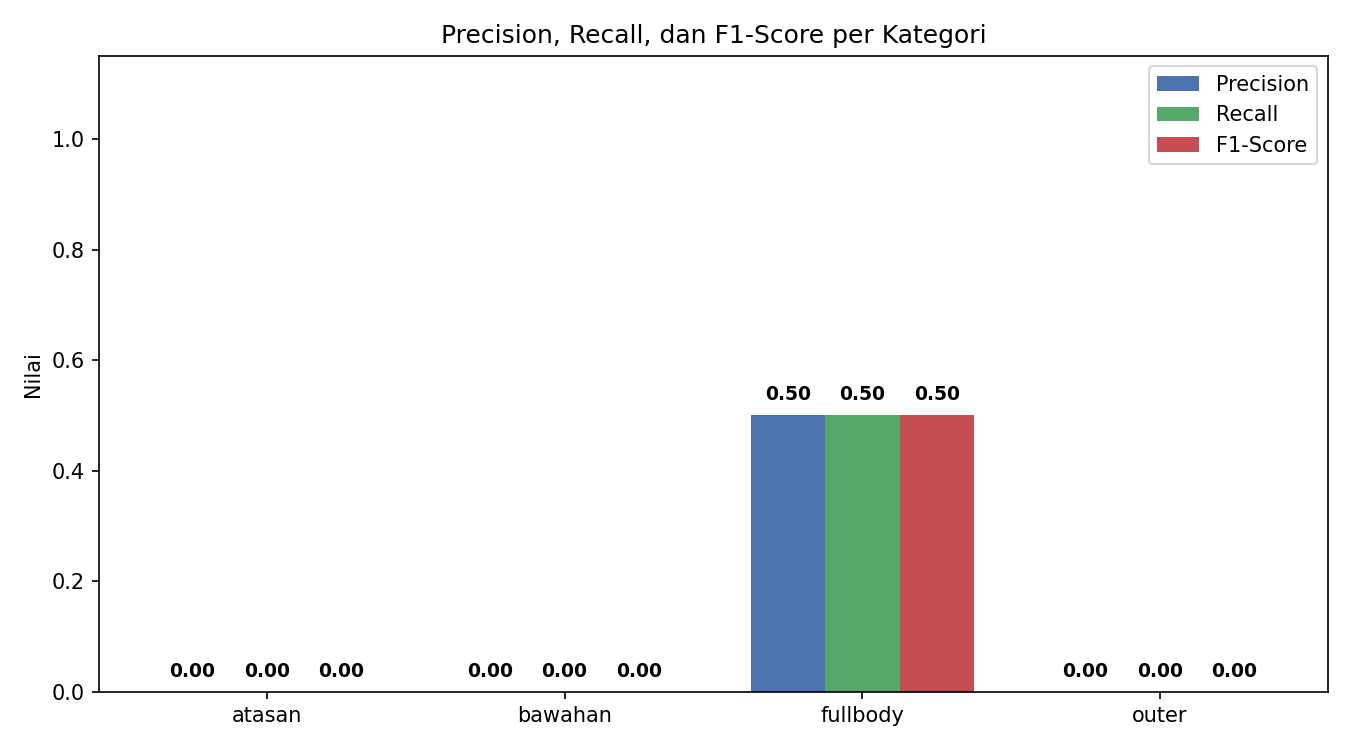
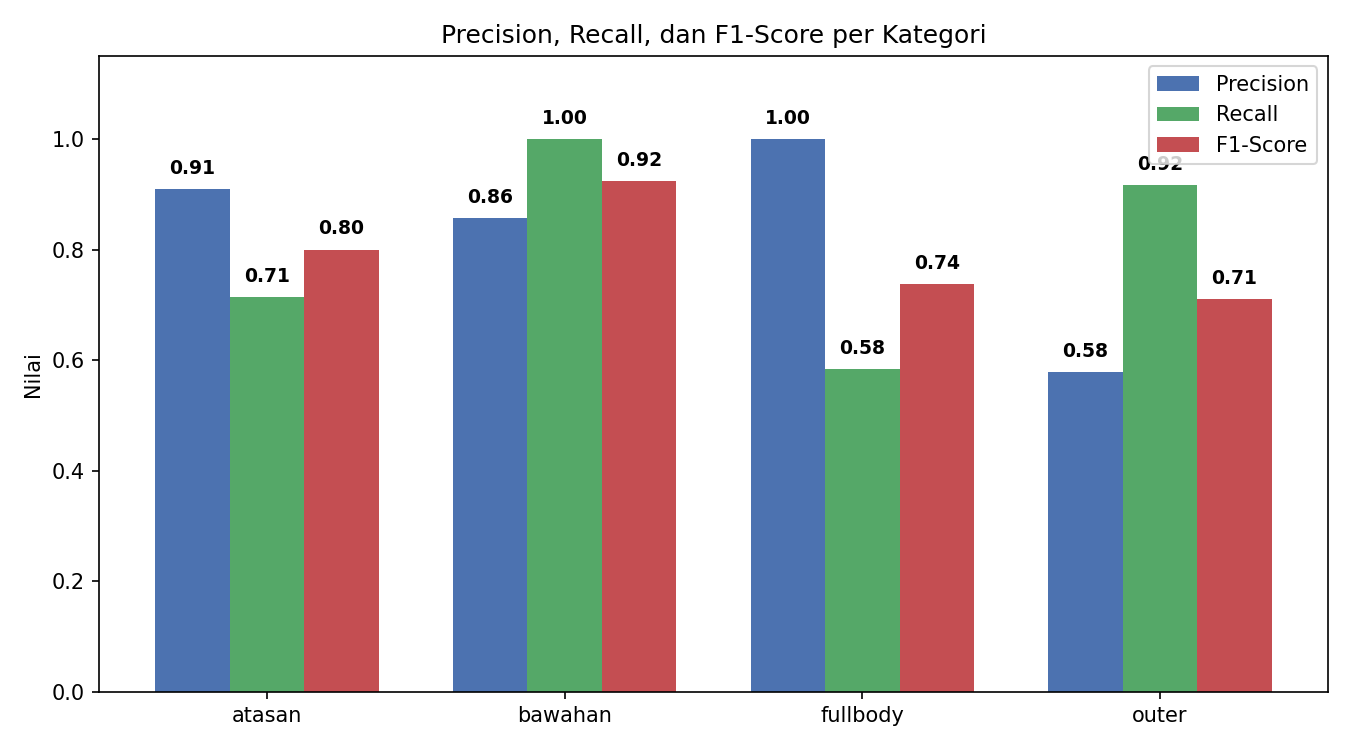
Add CLAUDE.md for project guidance and update main.py for improved data processing and model training

diff --git a/main.py b/main.py
@@ -9,70 +9,94 @@ from sklearn.tree import DecisionTreeClassifier, export_text, plot_tree
 from sklearn.model_selection import train_test_split
 from sklearn.metrics import confusion_matrix, ConfusionMatrixDisplay
 from sklearn.metrics import classification_report, accuracy_score
-from sklearn.preprocessing import LabelEncoder
+from sklearn.preprocessing import LabelEncoder, MultiLabelBinarizer
 
+# Membaca file .env agar SUPABASE_URL dan SUPABASE_KEY bisa diakses lewat os.environ
 load_dotenv()
 
 # ── 1. Fetch data dari Supabase ────────────────────────────────────────────────
+# Mengambil semua data responden dari tabel 'responses' di Supabase
+# lewat REST API yang disediakan Supabase secara otomatis
 print("Mengambil data dari Supabase...")
-url     = os.environ["SUPABASE_URL"] + "/rest/v1/responses?select=*&created_at=lt.2026-06-07T00:00:00&order=id.asc"
+url     = os.environ["SUPABASE_URL"] + "/rest/v1/responses?select=*&order=id.asc"
 headers = {
-    "apikey":        os.environ["SUPABASE_KEY"],
+    "apikey":        os.environ["SUPABASE_KEY"],   # kunci autentikasi Supabase
     "Authorization": "Bearer " + os.environ["SUPABASE_KEY"],
 }
 resp    = requests.get(url, headers=headers)
-records = resp.json()
+records = resp.json()  # hasil berupa list of dict (tiap dict = 1 baris data)
 
 if not records:
     print("Tidak ada data di tabel responses. Kumpulkan data dulu.")
     exit()
 
-df = pd.DataFrame(records)
+df = pd.DataFrame(records)  # ubah list of dict menjadi DataFrame agar mudah diolah
 print(f"Total data: {len(df)} responden\n")
 
 # ── 2. Preprocessing ───────────────────────────────────────────────────────────
+# Hanya ambil 3 kolom yang dibutuhkan untuk training, buang baris yang ada nilai kosong
 df = df[["body_shape", "gaya", "outfit"]].dropna()
 
-# Ambil gaya dominan (pilihan pertama)
-df["gaya_dominan"] = df["gaya"].apply(lambda x: x[0] if isinstance(x, list) and len(x) > 0 else None)
-df = df.dropna(subset=["gaya_dominan"])
+# Kolom 'gaya' dari Supabase bertipe array JSON (bisa multi-select)
+# Pastikan isinya benar-benar list dan tidak kosong; kalau tidak valid, jadikan None lalu hapus
+df["gaya"] = df["gaya"].apply(lambda x: x if isinstance(x, list) and len(x) > 0 else None)
+df = df.dropna(subset=["gaya"])
 
-# Ambil outfit utama (pilihan pertama) lalu kelompokkan ke kategori
+# Mapping nama outfit spesifik ke 4 kategori rekomendasi
+# Kategori ini yang akan menjadi label/output dari model
 KATEGORI = {
-    "dress":    "fullbody",
+    "dress":    "fullbody",   # pakaian satu potong yang menutupi badan penuh
     "jumpsuit": "fullbody",
     "setelan":  "fullbody",
-    "rok":      "bawahan",
+    "rok":      "bawahan",    # pakaian bagian bawah
     "celana":   "bawahan",
     "jeans":    "bawahan",
-    "blus":     "atasan",
+    "blus":     "atasan",     # pakaian bagian atas
     "kemeja":   "atasan",
     "kaos":     "atasan",
     "knit":     "atasan",
-    "blazer":   "outer",
+    "blazer":   "outer",      # pakaian luar / layer tambahan
     "outer":    "outer",
 }
-df["outfit_utama"]  = df["outfit"].apply(lambda x: x[0] if isinstance(x, list) and len(x) > 0 else None)
-df["rekomendasi"]   = df["outfit_utama"].map(KATEGORI)
-df = df.dropna(subset=["rekomendasi"])
+
+# Ambil outfit pilihan pertama responden sebagai acuan label
+# (outfit[0] = pilihan utama/prioritas responden)
+df["outfit_utama"] = df["outfit"].apply(lambda x: x[0] if isinstance(x, list) and len(x) > 0 else None)
+# Petakan nama outfit ke kategori; outfit yang tidak ada di mapping akan jadi NaN
+df["rekomendasi"]  = df["outfit_utama"].map(KATEGORI)
+df = df.dropna(subset=["rekomendasi"])  # hapus baris yang outfit-nya tidak dikenali
 
 print(f"Total baris setelah preprocessing: {len(df)}\n")
+
+# Tampilkan distribusi: untuk tiap kombinasi body_shape + gaya, label apa yang paling sering muncul
 print("Distribusi rekomendasi per kombinasi:")
-print(df.groupby(["body_shape", "gaya_dominan"])["rekomendasi"].agg(lambda x: x.value_counts().index[0]).to_string())
+df["gaya_str"] = df["gaya"].apply(lambda x: ", ".join(x))
+print(df.groupby(["body_shape", "gaya_str"])["rekomendasi"].agg(lambda x: x.value_counts().index[0]).to_string())
 print()
 
 # ── 3. Encode fitur ────────────────────────────────────────────────────────────
-le_body  = LabelEncoder()
-le_gaya  = LabelEncoder()
-le_label = LabelEncoder()
+# Model machine learning hanya bisa membaca angka, bukan teks
+# Maka semua fitur kategorikal harus diubah ke bentuk numerik
+
+le_body  = LabelEncoder()       # mengubah body_shape (teks) → angka (misal: hourglass=1, pear=3)
+mlb      = MultiLabelBinarizer()# mengubah gaya (list) → kolom biner per gaya (0 atau 1)
+le_label = LabelEncoder()       # mengubah label rekomendasi (teks) → angka
 
 df["body_shape_enc"] = le_body.fit_transform(df["body_shape"])
-df["gaya_enc"]       = le_gaya.fit_transform(df["gaya_dominan"])
 df["label_enc"]      = le_label.fit_transform(df["rekomendasi"])
 
-X = df[["body_shape_enc", "gaya_enc"]]
-y = df["label_enc"]
+# fit_transform pada mlb menghasilkan matrix biner:
+# misal gaya=['casual','classic'] → gaya_bohemian=0, gaya_casual=1, gaya_classic=1, gaya_formal=0, gaya_sporty=0
+gaya_encoded = mlb.fit_transform(df["gaya"])
+gaya_cols    = [f"gaya_{g}" for g in mlb.classes_]  # nama kolom: gaya_casual, gaya_formal, dst
+gaya_df      = pd.DataFrame(gaya_encoded, columns=gaya_cols, index=df.index)
 
+# Gabungkan fitur body_shape + semua kolom gaya menjadi input model (X)
+X = pd.concat([df[["body_shape_enc"]], gaya_df], axis=1)
+y = df["label_enc"]  # label/target yang ingin diprediksi
+
+# Bagi data menjadi 80% training dan 20% testing
+# random_state=42 agar pembagian selalu sama setiap kali dijalankan
 X_train, X_test, y_train, y_test = train_test_split(
     X, y, test_size=0.20, random_state=42
 )
@@ -80,20 +104,28 @@ print(f"Data training : {len(X_train)} sampel (80%)")
 print(f"Data testing  : {len(X_test)} sampel (20%)\n")
 
 # ── 4. Training C4.5 ───────────────────────────────────────────────────────────
+# C4.5 menggunakan entropy sebagai kriteria pemilihan atribut (information gain)
+# max_depth=5 membatasi kedalaman pohon agar tidak overfitting
 print("Training pohon keputusan C4.5...")
 model = DecisionTreeClassifier(
-    criterion="entropy",
-    max_depth=5,
-    min_samples_split=2,
-    min_samples_leaf=1,
+    criterion="entropy",      # pakai entropy = pendekatan C4.5 (bukan gini = CART)
+    max_depth=5,              # maksimum 5 level kedalaman pohon
+    min_samples_split=2,      # minimal 2 sampel untuk membuat percabangan baru
+    min_samples_leaf=1,       # minimal 1 sampel di tiap daun pohon
     random_state=42,
 )
-model.fit(X_train, y_train)
+model.fit(X_train, y_train)  # model belajar pola dari data training
 
 # ── 5. Evaluasi ────────────────────────────────────────────────────────────────
+# Uji model dengan data testing (data yang tidak dilihat saat training)
 y_pred = model.predict(X_test)
 acc    = accuracy_score(y_test, y_pred)
 print(f"\nAkurasi model: {acc * 100:.1f}%\n")
+
+# Classification report menampilkan precision, recall, dan f1-score per kategori:
+# - Precision : dari semua yang diprediksi kelas X, berapa % yang benar
+# - Recall    : dari semua data asli kelas X, berapa % yang berhasil terdeteksi
+# - F1-Score  : rata-rata harmonis precision dan recall
 print("Classification Report:")
 labels_present = sorted(y.unique())
 class_names    = le_label.inverse_transform(labels_present)
@@ -102,7 +134,7 @@ report         = classification_report(
     labels=labels_present,
     target_names=class_names,
     zero_division=0,
-    output_dict=True,
+    output_dict=True,  # output dict dipakai untuk membuat grafik di bawah
 )
 print(classification_report(
     y_test, y_pred,
@@ -111,11 +143,11 @@ print(classification_report(
     zero_division=0,
 ))
 
-# Visualisasi precision, recall, f1-score — satu grafik gabungan
+# Visualisasi precision, recall, f1-score dalam satu grafik batang kelompok
 metrics_df = pd.DataFrame(report).T.loc[list(class_names), ["precision", "recall", "f1-score"]]
 
-x     = np.arange(len(class_names))
-width = 0.25
+x     = np.arange(len(class_names))  # posisi label di sumbu X
+width = 0.25                          # lebar tiap batang
 
 fig, ax = plt.subplots(figsize=(9, 5))
 bars1 = ax.bar(x - width, metrics_df["precision"], width, label="Precision", color="#4C72B0")
@@ -129,6 +161,7 @@ ax.set_xticks(x)
 ax.set_xticklabels(class_names)
 ax.legend()
 
+# Tampilkan nilai angka di atas tiap batang
 for bars in [bars1, bars2, bars3]:
     for bar in bars:
         h = bar.get_height()
@@ -141,6 +174,8 @@ plt.show()
 print("Grafik metrics disimpan: metrics.png")
 
 # ── 6. Confusion Matrix ────────────────────────────────────────────────────────
+# Confusion matrix menunjukkan berapa prediksi yang benar dan salah per kategori
+# Diagonal = prediksi benar; luar diagonal = prediksi salah (tertukar ke kategori mana)
 class_names = le_label.inverse_transform(labels_present)
 cm  = confusion_matrix(y_test, y_pred, labels=labels_present)
 fig, ax = plt.subplots(figsize=(7, 5))
@@ -153,7 +188,9 @@ plt.show()
 print("Confusion matrix disimpan: confusion_matrix.png\n")
 
 # ── 7. Tampilkan rules pohon keputusan ────────────────────────────────────────
-feature_names = ["body_shape", "gaya_dominan"]
+# Menampilkan aturan if-then yang dihasilkan pohon C4.5 dalam format teks
+# Berguna untuk memahami logika keputusan model (interpretability)
+feature_names = ["body_shape"] + gaya_cols
 print("\nRules Pohon Keputusan (C4.5):")
 print("=" * 60)
 rules = export_text(
@@ -163,19 +200,23 @@ rules = export_text(
 print(rules)
 
 # ── 8. Simpan model & label encoders ──────────────────────────────────────────
+# Model dan encoder disimpan sebagai file .pkl agar bisa digunakan ulang
+# tanpa harus training ulang (dipakai oleh aplikasi/API prediksi)
 joblib.dump(model,    "model_c45.pkl")
 joblib.dump(le_body,  "le_body.pkl")
-joblib.dump(le_gaya,  "le_gaya.pkl")
+joblib.dump(mlb,      "mlb_gaya.pkl")   # MultiLabelBinarizer untuk gaya
 joblib.dump(le_label, "le_label.pkl")
 print("Model tersimpan: model_c45.pkl")
 
 # ── 9. Visualisasi pohon keputusan ────────────────────────────────────────────
+# Gambar pohon keputusan secara visual — tiap node menunjukkan atribut yang dipakai
+# untuk memisahkan data, tiap daun menunjukkan label hasil prediksi
 plt.figure(figsize=(14, 6))
 plot_tree(
     model,
     feature_names=feature_names,
     class_names=le_label.classes_,
-    filled=True,
+    filled=True,    # warna node sesuai kelas mayoritas
     rounded=True,
     fontsize=10,
 )
@@ -186,25 +227,29 @@ plt.show()
 print("Visualisasi disimpan: pohon_keputusan.png")
 
 # ── 10. Fungsi prediksi ────────────────────────────────────────────────────────
-def prediksi(body_shape: str, gaya: str) -> str:
+# Fungsi ini dipakai untuk memprediksi rekomendasi outfit berdasarkan input baru
+# Input: body_shape (string) dan gaya (list of string)
+# Output: kategori rekomendasi outfit (fullbody / bawahan / atasan / outer)
+def prediksi(body_shape: str, gaya: list) -> str:
     try:
-        bs  = le_body.transform([body_shape])[0]
-        g   = le_gaya.transform([gaya])[0]
-        inp = pd.DataFrame([[bs, g]], columns=["body_shape_enc", "gaya_enc"])
-        enc = model.predict(inp)[0]
-        return le_label.inverse_transform([enc])[0]
+        bs           = le_body.transform([body_shape])[0]     # encode body_shape ke angka
+        gaya_enc     = mlb.transform([gaya])                  # encode gaya ke biner
+        gaya_enc_df  = pd.DataFrame(gaya_enc, columns=gaya_cols)
+        inp          = pd.concat([pd.DataFrame([[bs]], columns=["body_shape_enc"]), gaya_enc_df], axis=1)
+        enc          = model.predict(inp)[0]                  # prediksi angka label
+        return le_label.inverse_transform([enc])[0]           # ubah angka kembali ke nama kategori
     except Exception:
         return "Kombinasi tidak ditemukan dalam data training"
 
-# Contoh prediksi
+# Contoh prediksi dengan beberapa kombinasi body_shape dan gaya
 print("\nContoh prediksi:")
 contoh = [
-    ("hourglass", "casual"),
-    ("pear",      "formal"),
-    ("rectangle", "bohemian"),
-    ("inverted",  "sporty"),
-    ("apple",     "classic"),
+    ("hourglass", ["casual"]),
+    ("pear",      ["formal"]),
+    ("rectangle", ["bohemian", "casual"]),
+    ("inverted",  ["sporty"]),
+    ("apple",     ["classic", "formal"]),
 ]
 for bs, g in contoh:
     hasil = prediksi(bs, g)
-    print(f"  body_shape={bs}, gaya={g} → rekomendasi: {hasil}")
+    print(f"  body_shape={bs}, gaya={g} -> rekomendasi: {hasil}")

diff --git a/CLAUDE.md b/CLAUDE.md
@@ -1,0 +1,48 @@
+# CLAUDE.md
+
+This file provides guidance to Claude Code (claude.ai/code) when working with code in this repository.
+
+## Commands
+
+```powershell
+# Install dependencies
+pip install -r requirements.txt
+
+# Generate & insert dummy data ke Supabase (hapus dummy lama dulu)
+py seed_dummy.py
+
+# Cari random seed yang menghasilkan akurasi target
+py find_seed.py
+
+# Training model utama (pakai data responden asli dari Supabase)
+py main.py
+```
+
+## Environment
+
+Butuh file `.env` di root dengan isi:
+```
+SUPABASE_URL=https://xxxx.supabase.co
+SUPABASE_KEY=your_anon_key
+```
+
+## Architecture
+
+Proyek skripsi sistem rekomendasi outfit berbasis **C4.5 Decision Tree** (sklearn `DecisionTreeClassifier` dengan `criterion="entropy"`).
+
+**Alur data:**
+1. Data kuesioner responden disimpan di Supabase tabel `responses` dengan kolom: `body_shape` (string), `gaya` (array multi-select), `outfit` (array multi-select)
+2. `main.py` fetch data responden asli (filter `created_at < 2026-06-07`)
+3. `outfit[0]` dipetakan ke 4 kategori label: `fullbody`, `bawahan`, `atasan`, `outer`
+4. Fitur: `body_shape` (LabelEncoder) + `gaya` (MultiLabelBinarizer → kolom biner per gaya)
+5. Model disimpan sebagai `model_c45.pkl`, `le_body.pkl`, `mlb_gaya.pkl`, `le_label.pkl`
+
+**Pemisahan data dummy vs asli di Supabase:**
+- Data dummy: `created_at >= 2026-06-07` (diinsert oleh `seed_dummy.py`)
+- Data responden asli: `created_at < 2026-06-07`
+- `main.py` hanya ambil data asli; `seed_dummy.py` tidak menghapus data asli
+
+**Fungsi prediksi** (`main.py`) menerima `body_shape: str` dan `gaya: list`, contoh:
+```python
+prediksi("hourglass", ["casual", "classic"])
+```